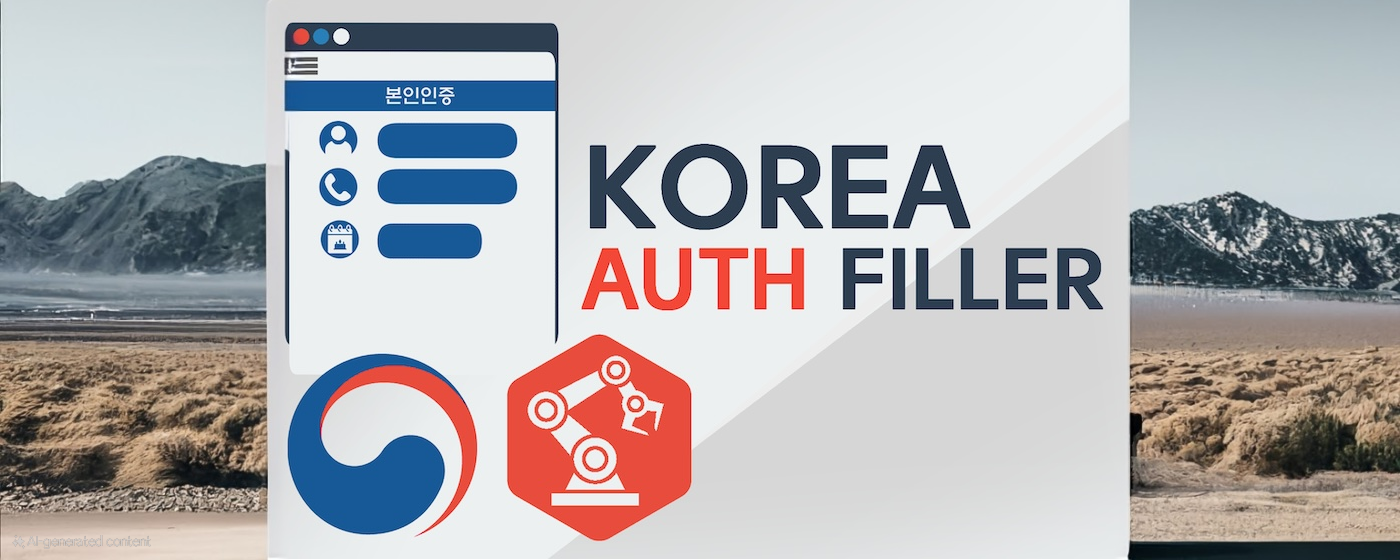
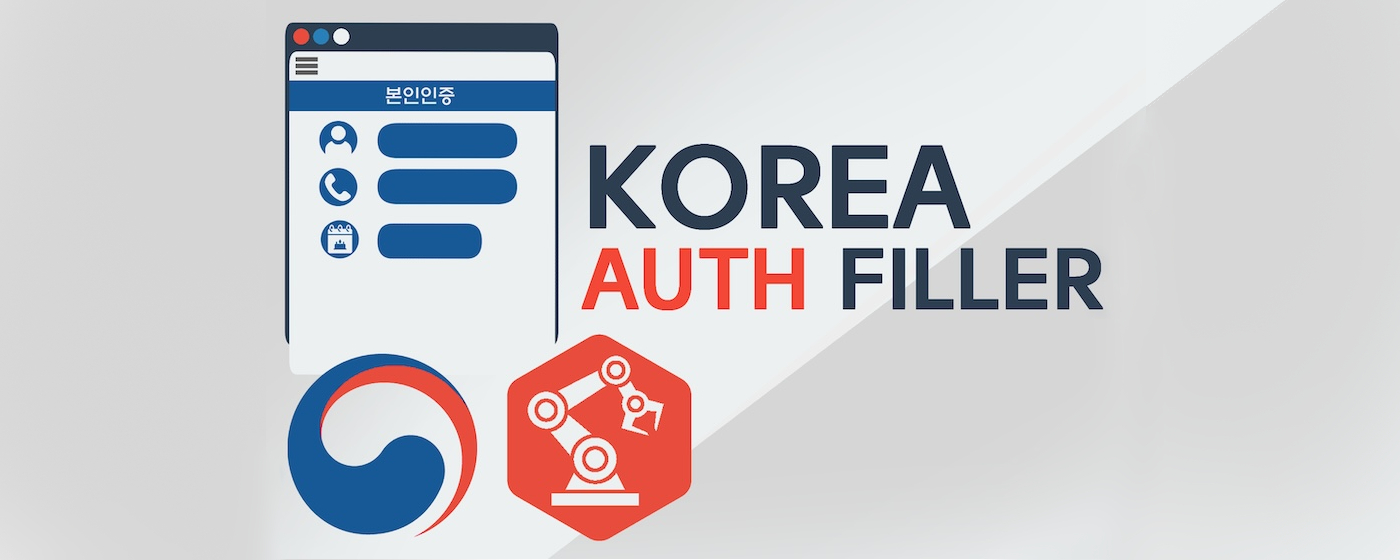
HOTFIX: popup에서 스크롤바가 비 정상적으로 많이 출력되는 문제를 수정, MOD: publish screenshot 정리, MOD: v1.2.1

diff --git a/src/entrypoints/popup/Popup.tsx b/src/entrypoints/popup/Popup.tsx
@@ -1,5 +1,6 @@
 import MainIcon from "@/assets/icons/128.png";
 import { Anchor } from "@/components/ui/anchor";
+import { ScrollArea } from "@/components/ui/scrollarea";
 import { Tooltip } from "@/components/ui/tooltip";
 import { useStorage } from "@/hooks/useStorage";
 import { useTranslation } from "@/hooks/useTranslation";
@@ -143,8 +144,8 @@ export function Popup() {
           </Tooltip>
         </div>
       </header>
-      <main className="flex h-96">
-        <section className="overflow-scroll">
+      <main className="flex">
+        <ScrollArea className="w-96 h-96">
           {profiles.length < 1 ? (
             <div className="p-4 text-center space-y-2">
               <h4 className="text-center text-base">{t("no_profile")}</h4>
@@ -153,11 +154,11 @@ export function Popup() {
               </button>
             </div>
           ) : null}
-          <ul className="w-96 p-2 pl-4">
+          <ul className="w-96 p-2 pl-3">
             {profiles.map((profile, index) => (
               <li className="w-full flex items-center" key={profile.id}>
                 <div
-                  className={cn("w-1 h-4 rounded-full", {
+                  className={cn("w-1 h-4 rounded-full opacity-80", {
                     "bg-base-content": selectedProfile === index,
                   })}
                 ></div>
@@ -189,14 +190,14 @@ export function Popup() {
               </li>
             ))}
           </ul>
-        </section>
+        </ScrollArea>
 
-        <section
-          className={cn("overflow-scroll w-96", {
+        <ScrollArea
+          className={cn("w-96 h-96", {
             "w-0": !isSideMenuOpen,
           })}
         >
-          <form className="space-y-2 w-96 p-4" onSubmit={onSubmit}>
+          <form className="space-y-2 p-4" onSubmit={onSubmit}>
             <h3 className="text-lg font-bold ml-2">{t("add_profile")}</h3>
 
             <fieldset className="grid grid-cols-12">
@@ -283,7 +284,7 @@ export function Popup() {
               </button>
             </div>
           </form>
-        </section>
+        </ScrollArea>
       </main>
       <footer className="w-full bg-base-200">
         <ul className="flex p-2">

diff --git a/src/components/ui/scrollarea.tsx b/src/components/ui/scrollarea.tsx
@@ -1,0 +1,53 @@
+import { cn } from "@/utils/utils";
+import * as ScrollAreaPrimitive from "@radix-ui/react-scroll-area";
+import { forwardRef } from "react";
+
+type ScrollAreaRef = React.ElementRef<typeof ScrollAreaPrimitive.Root>;
+type ScrollAreaProps = React.ComponentPropsWithoutRef<typeof ScrollAreaPrimitive.Root>;
+
+const ScrollArea = forwardRef<ScrollAreaRef, ScrollAreaProps>((props, ref) => {
+  const { className, children, ...rest } = props;
+
+  return (
+    <ScrollAreaPrimitive.Root
+      className={cn("relative overflow-hidden", className)}
+      ref={ref}
+      {...rest}
+    >
+      <ScrollAreaPrimitive.Viewport className="h-full w-full rounded-[inherit]">
+        {children}
+      </ScrollAreaPrimitive.Viewport>
+      <ScrollBar />
+      <ScrollAreaPrimitive.Corner />
+    </ScrollAreaPrimitive.Root>
+  );
+});
+ScrollArea.displayName = ScrollAreaPrimitive.Root.displayName;
+
+type ScrollBarRef = React.ElementRef<typeof ScrollAreaPrimitive.ScrollAreaScrollbar>;
+type ScrollBarProps = React.ComponentPropsWithoutRef<
+  typeof ScrollAreaPrimitive.ScrollAreaScrollbar
+>;
+
+const ScrollBar = forwardRef<ScrollBarRef, ScrollBarProps>((props, ref) => {
+  const { className, orientation = "vertical", ...rest } = props;
+
+  return (
+    <ScrollAreaPrimitive.ScrollAreaScrollbar
+      className={cn(
+        "flex touch-none select-none transition-colors",
+        orientation === "vertical" && "h-full w-2.5 border-l border-l-transparent p-[1px]",
+        orientation === "horizontal" && "h-2.5 flex-col border-t border-t-transparent p-[1px]",
+        className,
+      )}
+      orientation={orientation}
+      ref={ref}
+      {...rest}
+    >
+      <ScrollAreaPrimitive.ScrollAreaThumb className="relative flex-1 rounded-full bg-base-content opacity-50" />
+    </ScrollAreaPrimitive.ScrollAreaScrollbar>
+  );
+});
+ScrollBar.displayName = ScrollAreaPrimitive.ScrollAreaScrollbar.displayName;
+
+export { ScrollArea, ScrollBar };

diff --git a/src/entrypoints/autofill.content/index.ts b/src/entrypoints/autofill.content/index.ts
@@ -15,12 +15,30 @@ export default defineContentScript({
 
 async function main(ctx: ContentScriptContext) {
   const data = (await browser.storage.sync.get(null)) as StorageData;
-  if (!data.on) return log("OFF");
-  if (!data.profiles) return log("No profiles");
+  if (!data.on) {
+    log("OFF");
+    return;
+  }
+  if (!data.profiles) {
+    log("No profiles array");
+    return;
+  }
 
   const profiles = data.profiles;
+  if (profiles.length === 0) {
+    log("No profiles");
+    return;
+  }
+  if (profiles.length <= data.selectedProfile) {
+    log("Selected profile is out of range");
+    return;
+  }
+
   const rawProfile = profiles[data.selectedProfile];
-  if (!rawProfile) return log("No selected profile");
+  if (!rawProfile) {
+    log("No selected profile");
+    return;
+  }
 
   log("Korea Auth Filler");
 

diff --git a/src/components/ui/Anchor.tsx b/src/components/ui/Anchor.tsx
@@ -5,9 +5,10 @@ export function Anchor(props: ComponentProps<"a">) {
   const { href, onClick, ...rest } = props;
 
   const handleClick = (e: React.MouseEvent<HTMLAnchorElement>) => {
-    onClick?.(e);
+    e.preventDefault();
     if (!href) return;
     browser.tabs.create({ url: href });
+    onClick?.(e);
   };
 
   return (

diff --git a/src/entrypoints/background/index.ts b/src/entrypoints/background/index.ts
@@ -10,7 +10,7 @@ export default defineBackground({
 const defaultStorageData: StorageData = {
   profiles: [],
   selectedProfile: 0,
-  on: false,
+  on: true,
   isSideMenuOpen: false,
 };
 
